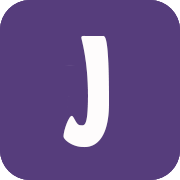
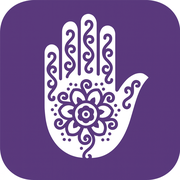
random background selector

diff --git a/index.html b/index.html
@@ -5,7 +5,7 @@
   <meta charset="utf-8">
   <meta content="width=device-width, initial-scale=1.0" name="viewport">
 
-  <title>Jaspreet Singh Portfolio</title>
+  <title>Henna & Mehndi by Manpreet</title>
   <meta content="" name="description">
   <meta content="" name="keywords">
 
@@ -38,6 +38,7 @@
   <header id="header" class="d-flex flex-column justify-content-center">
 
     <nav id="navbar" class="navbar nav-menu">
+      <div id="navbar-img"></div>
       <ul>
         <li><a href="#hero" class="nav-link scrollto active"><i class="bx bx-home"></i> <span>Home</span></a></li>
         <li><a href="#about" class="nav-link scrollto"><i class="bx bx-user"></i> <span>About</span></a></li>
@@ -51,8 +52,8 @@
   <!-- ======= Hero Section ======= -->
   <section id="hero" class="d-flex flex-column justify-content-center">
     <div class="container" data-aos="zoom-in" data-aos-delay="100">
-      <h1>Jaspreet Singh</h1>
-      <p>I'm <span class="typed" data-typed-items="Developer, Programmer"></span></p>
+      <h1>Manpreet Kaur</h1>
+      <p style="margin-left: 4px;">I'm a <span class="typed" data-typed-items="Traditional Mehndi Artist, Festival Henna Designer, Modern Mehndi Artist, Bridal Mehndi Designer, Party Henna Designer"></span></p>
       <div class="social-links">
         <a href="#" class="google-plus"><i class="bx bxl-skype"></i></a>
         <a href="https://www.linkedin.com/in/singh-jass/" target="_blank" rel="noopener noreferrer" class="linkedin"><i class="bx bxl-linkedin"></i></a>
@@ -248,6 +249,125 @@
 
   <!-- Template Main JS File -->
   <script src="assets/js/main.js"></script>
+
+<!-- Randomize #hero background only when (max-width: 600px) matches; updates dynamically -->
+<script id="random-hero-bg-script">
+  document.addEventListener("DOMContentLoaded", function() {
+    var hero = document.getElementById("hero");
+    if (!hero) return;
+
+    var mq = window.matchMedia("(max-width: 600px)");
+    var basePath = "assets/img/backgrounds";
+    if (basePath && !basePath.endsWith("/")) basePath += "/";
+
+    function pickRandomUrl() {
+      var n = Math.floor(Math.random() * 10) + 1; // 1..10
+      return basePath + "background-" + n + ".png";
+    }
+
+    function applyRandom() {
+      var url = pickRandomUrl();
+      var img = new Image();
+      img.onload = function() {
+        hero.style.backgroundImage = "url('" + url + "')";
+        hero.style.backgroundPosition = "top right";
+        hero.style.backgroundRepeat = "no-repeat";
+        hero.style.backgroundSize = "contain";
+      };
+      img.onerror = function() {
+        // If numbered image fails, clear inline style to let CSS fallback apply
+        hero.style.backgroundImage = "";
+      };
+      img.src = url + "?v=" + Math.random();
+    }
+
+    function clearInline() {
+      // Remove inline override so CSS media rule controls the background again
+      hero.style.backgroundImage = "";
+      hero.style.backgroundPosition = "";
+      hero.style.backgroundRepeat = "";
+      hero.style.backgroundSize = "";
+    }
+
+    function updateForMediaChange(e) {
+      if (e.matches) {
+        applyRandom();
+      } else {
+        clearInline();
+      }
+    }
+
+    // Initial state
+    updateForMediaChange(mq);
+
+    // React to changes (resize/orientation)
+    if (typeof mq.addEventListener === "function") {
+      mq.addEventListener("change", updateForMediaChange);
+    } else if (typeof mq.addListener === "function") {
+      // Safari/older
+      mq.addListener(updateForMediaChange);
+    }
+  });
+</script>
+
+<!-- Randomize #navbar-img background for mobile and large screens -->
+<script id="random-navbar-bg-script">
+  document.addEventListener("DOMContentLoaded", function() {
+    var navbarImg = document.querySelector("header #navbar #navbar-img");
+    if (!navbarImg) return;
+
+    var basePath = "assets/img/backgrounds/";
+    function pickRandomUrl() {
+      var n = Math.floor(Math.random() * 10) + 1;
+      return basePath + "background-" + n + ".png";
+    }
+
+    function applyRandom(el) {
+      var url = pickRandomUrl();
+      var img = new Image();
+      img.onload = function() {
+        el.style.backgroundImage = "url('" + url + "')";
+        el.style.backgroundSize = "cover";
+        el.style.backgroundPosition = "center";
+      };
+      img.onerror = function() {
+        el.style.backgroundImage = "";
+      };
+      img.src = url + "?v=" + Math.random();
+    }
+
+    function clearInline(el) {
+      el.style.backgroundImage = "";
+      el.style.backgroundSize = "";
+      el.style.backgroundPosition = "";
+    }
+
+    // Two media queries: <=600px and >=992px
+    var mqMobile = window.matchMedia("(max-width: 600px)");
+    var mqDesktop = window.matchMedia("(min-width: 992px)");
+
+    function update() {
+      if (mqMobile.matches || mqDesktop.matches) {
+        applyRandom(navbarImg);
+      } else {
+        clearInline(navbarImg); // mid-range: let CSS handle it (if any)
+      }
+    }
+
+    // Initial run
+    update();
+
+    // React to viewport changes
+    [mqMobile, mqDesktop].forEach(function(mq) {
+      if (typeof mq.addEventListener === "function") {
+        mq.addEventListener("change", update);
+      } else if (typeof mq.addListener === "function") {
+        mq.addListener(update);
+      }
+    });
+  });
+</script>
+
 
 </body>
 
